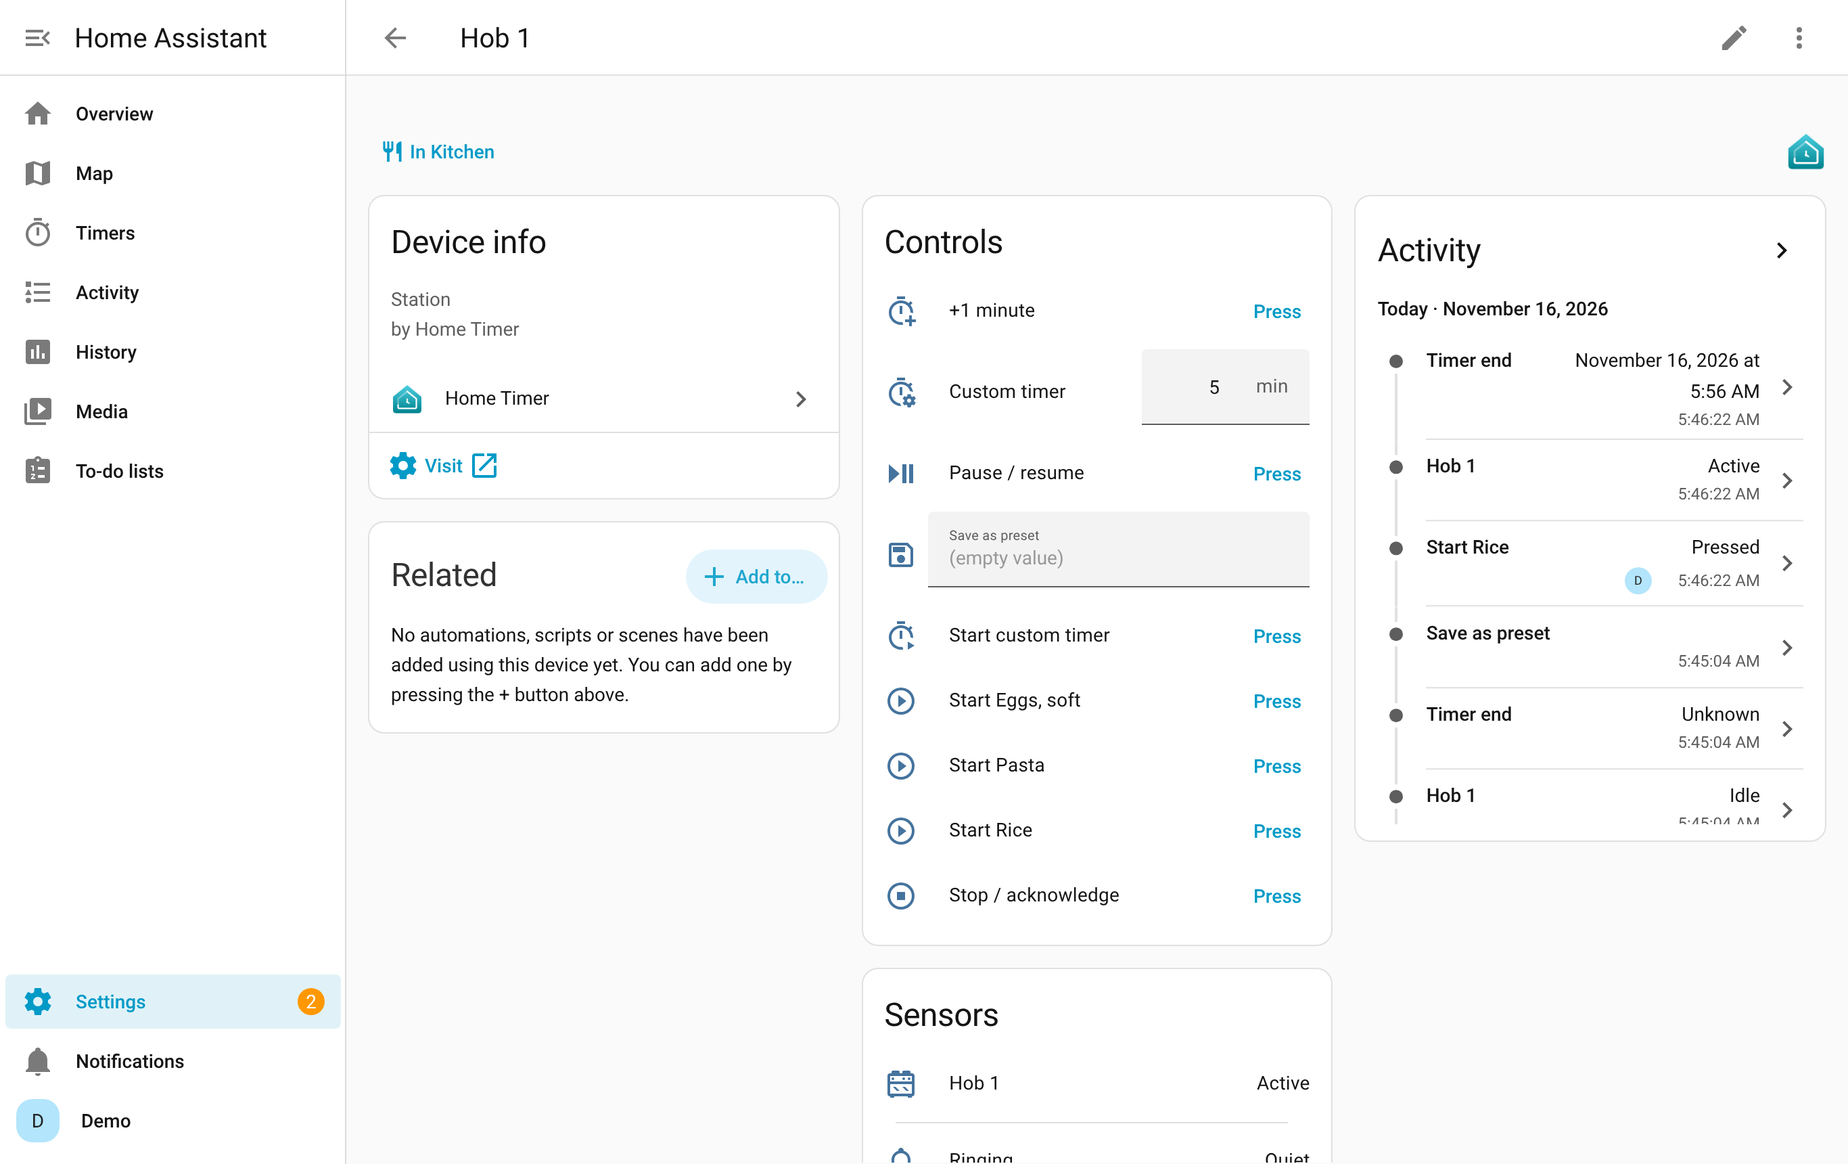
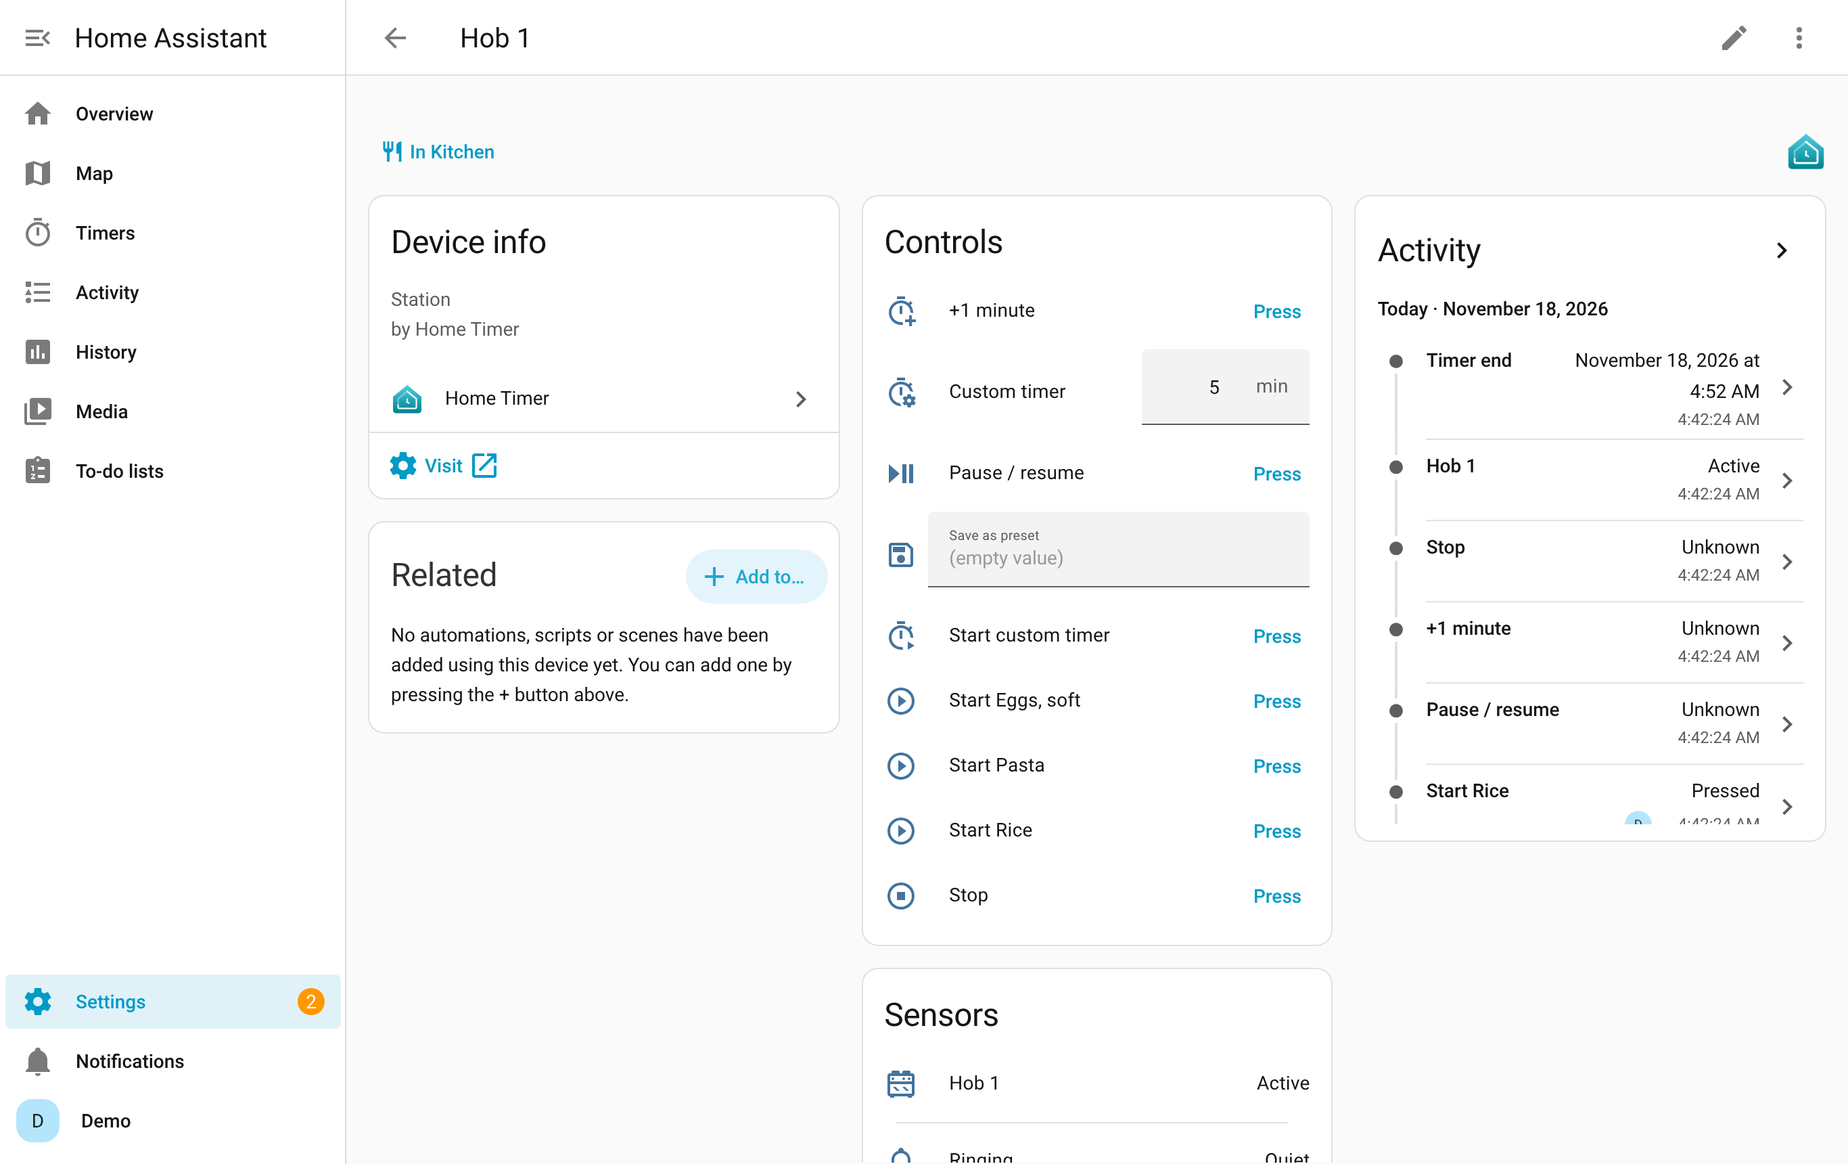
Buttons: shorter names, available only when they can act
- The area's "Acknowledge all" is now "Stop ringing" (it only stops
  timers without a station); a station's "Stop / acknowledge" is "Stop".
  Unique ids are unchanged, so existing entities keep their entity ids;
  new installs get button.<area>_home_timer_stop_ringing and
  button.<area>_<station>_stop.
- Buttons are unavailable while they could do nothing: Stop ringing
  while no timer without a station rings, Pause / resume while the
  station's timer neither runs (with an end) nor is paused, +1 minute
  while it has no timer with an end, Stop while it has no timer, Done now
  while the appliance is off.

Claude-Session: https://claude.ai/code/session_013QxJ3mY44sKf5QDsVZqSUV

diff --git a/custom_components/home_timer/button.py b/custom_components/home_timer/button.py
@@ -1,5 +1,9 @@
-"""Buttons. Area: acknowledge all, its quick timers, start custom timer. Station: its
-presets, start custom timer, pause/resume, +1 minute, stop."""
+"""Buttons. Area: stop ringing, its quick timers, start custom timer. Station: its
+presets, start custom timer, pause/resume, +1 minute, stop, done now.
+
+Buttons that act on a timer are available only while they can do something
+(stop ringing while a timer without a station rings, pause/resume while the
+station's timer runs or is paused, …)."""
 
 from __future__ import annotations
 
@@ -55,9 +59,13 @@ def _run(func, *args, **kwargs) -> None:
 
 
 class AcknowledgeAllButton(AreaEntity, ButtonEntity):
-    """Acknowledges the ringing timers without a station (stations have their own button).
+    """Stop ringing: acknowledges the ringing timers without a station (stations have their own Stop).
 
-    Does nothing while none rings (always available, so a dashboard button stays usable)."""
+    Available only while one of them rings."""
+
+    @property
+    def available(self) -> bool:
+        return any(t.status == STATUS_RINGING and t.station is None for t in self.engine.timers.values())
 
     async def async_press(self) -> None:
         self.engine.acknowledge_all(by=BY_BUTTON, stations=False)
@@ -104,6 +112,13 @@ class StationStartCustomButton(StationEntity, ButtonEntity):
 
 
 class PauseResumeButton(StationEntity, ButtonEntity):
+    """Pauses the station's timer or resumes it; available while it runs (with an end) or is paused."""
+
+    @property
+    def available(self) -> bool:
+        timer = self.timer
+        return timer is not None and (timer.status == STATUS_PAUSED or (timer.status == STATUS_ACTIVE and not timer.open))
+
     async def async_press(self) -> None:
         timer = self.timer
         if timer is None:
@@ -115,7 +130,12 @@ class PauseResumeButton(StationEntity, ButtonEntity):
 
 
 class AddMinuteButton(StationEntity, ButtonEntity):
-    """+1 minute; a ringing timer starts again with one minute."""
+    """+1 minute; a ringing timer starts again with one minute. Available while that is possible."""
+
+    @property
+    def available(self) -> bool:
+        timer = self.timer
+        return timer is not None and timer.status in (STATUS_ACTIVE, STATUS_PAUSED, STATUS_RINGING) and not (timer.open and timer.status == STATUS_ACTIVE)
 
     async def async_press(self) -> None:
         if (timer := self.timer) is not None:
@@ -123,7 +143,11 @@ class AddMinuteButton(StationEntity, ButtonEntity):
 
 
 class StopButton(StationEntity, ButtonEntity):
-    """Acknowledges a ringing timer, cancels a running or paused one."""
+    """Stop: acknowledges a ringing timer, cancels a running or paused one. Available while there is one."""
+
+    @property
+    def available(self) -> bool:
+        return self.timer is not None
 
     async def async_press(self) -> None:
         timer = self.timer
@@ -139,7 +163,13 @@ class DoneNowButton(StationEntity, ButtonEntity):
     """Learning: the user says the appliance's run is done now (a mark on the run's curve).
 
     It does not ring or stop anything; the panel uses the marks to suggest done rules.
+    Available while the appliance runs.
     """
+
+    @property
+    def available(self) -> bool:
+        watcher = self.engine.watcher(self.station.id)
+        return bool(watcher and watcher.running)
 
     async def async_press(self) -> None:
         watcher = self.engine.watcher(self.station.id)

diff --git a/tests/test_power_station.py b/tests/test_power_station.py
@@ -44,7 +44,7 @@ async def test_until_off_with_switch_off_rule(hass: HomeAssistant, kitchen, free
     for name in ("button.kitchen_kettle_start_custom_timer", "number.kitchen_kettle_custom_timer",
                  "button.kitchen_kettle_pause_resume"):
         assert hass.states.get(name) is None, name
-    assert hass.states.get("button.kitchen_kettle_stop_acknowledge") is not None
+    assert hass.states.get("button.kitchen_kettle_stop") is not None
     await watts(hass, freezer, 2100)
     assert hass.states.get("binary_sensor.kitchen_kettle_running").state == "on"
     state = hass.states.get("sensor.kitchen_kettle")
@@ -60,7 +60,7 @@ async def test_until_off_with_switch_off_rule(hass: HomeAssistant, kitchen, free
     assert hass.states.get("sensor.kitchen_kettle_runs").state == "1"
     assert float(hass.states.get("sensor.kitchen_kettle_usual_duration").state) == pytest.approx(3, abs=0.1)
     # the next run shows the expected end
-    await hass.services.async_call("button", "press", {"entity_id": "button.kitchen_kettle_stop_acknowledge"}, blocking=True)
+    await hass.services.async_call("button", "press", {"entity_id": "button.kitchen_kettle_stop"}, blocking=True)
     await watts(hass, freezer, 2100, seconds_after=60)
     assert hass.states.get("sensor.kitchen_kettle_timer_end").state not in ("unknown", "unavailable")
 
@@ -104,7 +104,7 @@ async def test_warn_if_it_runs_too_long(hass: HomeAssistant, kitchen, freezer) -
     await watts(hass, freezer, 1200)
     await tick(hass, freezer, 3601)
     assert hass.states.get("sensor.kitchen_iron").state == "ringing"
-    await hass.services.async_call("button", "press", {"entity_id": "button.kitchen_iron_stop_acknowledge"}, blocking=True)
+    await hass.services.async_call("button", "press", {"entity_id": "button.kitchen_iron_stop"}, blocking=True)
     await tick(hass, freezer, 10)
     assert hass.states.get("sensor.kitchen_iron").state == "active"  # still on: warns again
     await watts(hass, freezer, 0)
@@ -131,7 +131,7 @@ async def test_running_across_a_reload(hass: HomeAssistant, kitchen, freezer) ->
     await tick(hass, freezer, 31)
     assert hass.states.get("sensor.kitchen_kettle").state == "ringing"
     # … without it (a long gap), at once
-    await hass.services.async_call("button", "press", {"entity_id": "button.kitchen_kettle_stop_acknowledge"}, blocking=True)
+    await hass.services.async_call("button", "press", {"entity_id": "button.kitchen_kettle_stop"}, blocking=True)
     await watts(hass, freezer, 2000, seconds_after=5)
     assert hass.states.get("sensor.kitchen_kettle").state == "active"
     assert await hass.config_entries.async_unload(kitchen.entry_id)
@@ -249,7 +249,7 @@ async def test_warn_stop_silences_the_run(hass: HomeAssistant, kitchen, freezer)
     await add_power_station(hass, kitchen, "Iron", "warn", warn_after=60)
     ev = events(hass)
     await watts(hass, freezer, 1200)
-    await hass.services.async_call("button", "press", {"entity_id": "button.kitchen_iron_stop_acknowledge"}, blocking=True)
+    await hass.services.async_call("button", "press", {"entity_id": "button.kitchen_iron_stop"}, blocking=True)
     await tick(hass, freezer, 10)
     assert hass.states.get("sensor.kitchen_iron").state == "idle"  # stopped: no new warning this run
     assert len(ev["started"]) == 1

diff --git a/tests/test_stations.py b/tests/test_stations.py
@@ -19,7 +19,7 @@ RICE = "button.kitchen_hob_1_start_rice"
 PASTA = "button.kitchen_hob_1_start_pasta"
 PAUSE = "button.kitchen_hob_1_pause_resume"
 PLUS = "button.kitchen_hob_1_1_minute"
-STOP = "button.kitchen_hob_1_stop_acknowledge"
+STOP = "button.kitchen_hob_1_stop"
 
 
 @pytest.fixture
@@ -238,7 +238,7 @@ async def test_upgrade_keeps_area_entities(hass: HomeAssistant, kitchen) -> None
     for entity_id in (
         "sensor.kitchen_home_timer_timers",
         "binary_sensor.kitchen_home_timer_ringing",
-        "button.kitchen_home_timer_acknowledge_all",
+        "button.kitchen_home_timer_stop_ringing",
     ):
         assert hass.states.get(entity_id) is not None
     assert kitchen.subentries == {}
@@ -260,10 +260,28 @@ async def test_ringing_sensors_are_red_while_ringing(hass: HomeAssistant, kitche
     await tick(hass, freezer, 31)
     assert hass.states.get("binary_sensor.kitchen_home_timer_ringing").state == "on"
     # the area's button acknowledges only timers without a station
-    await hass.services.async_call("button", "press", {"entity_id": "button.kitchen_home_timer_acknowledge_all"}, blocking=True)
+    await hass.services.async_call("button", "press", {"entity_id": "button.kitchen_home_timer_stop_ringing"}, blocking=True)
     assert hass.states.get("binary_sensor.kitchen_home_timer_ringing").state == "off"
     assert hass.states.get("binary_sensor.kitchen_hob_1_ringing").state == "on"
     # the action on the area still acknowledges every ringing timer of it, stations' included
     await hass.services.async_call(DOMAIN, "acknowledge", {"area_id": kitchen.data["area_id"]}, blocking=True)
     assert hass.states.get("binary_sensor.kitchen_hob_1_ringing").state == "off"
 
+
+
+async def test_buttons_are_available_only_when_they_can_act(hass: HomeAssistant, kitchen, freezer) -> None:
+    """Pause/resume, +1 minute, Stop and the area's Stop ringing are unavailable while they could do nothing."""
+    await add_station(hass, kitchen, "Hob 1", [("Rice", 60)])
+    ringing = "button.kitchen_home_timer_stop_ringing"
+    state = lambda e: hass.states.get(e).state  # noqa: E731
+    assert [state(e) for e in (PAUSE, PLUS, STOP, ringing)] == ["unavailable"] * 4
+    await hass.services.async_call("button", "press", {"entity_id": RICE}, blocking=True)
+    assert "unavailable" not in [state(e) for e in (PAUSE, PLUS, STOP)]
+    await tick(hass, freezer, 61)  # the station's timer rings
+    assert state(PAUSE) == "unavailable" and state(STOP) != "unavailable" and state(PLUS) != "unavailable"
+    assert state(ringing) == "unavailable"  # the area's button is for timers without a station
+    await hass.services.async_call("button", "press", {"entity_id": STOP}, blocking=True)
+    assert [state(e) for e in (PAUSE, PLUS, STOP)] == ["unavailable"] * 3
+    await start(hass, kitchen.data["area_id"], duration="00:00:30")
+    await tick(hass, freezer, 31)
+    assert state(ringing) != "unavailable"

diff --git a/scripts/instance/scene.py b/scripts/instance/scene.py
@@ -27,14 +27,14 @@ DASHBOARD = {
                 {"type": "tile", "entity": "button.kitchen_hob_1_start_eggs_soft", "name": "Eggs", "vertical": True, "hide_state": True, "grid_options": {"columns": 4}},
                 {"type": "tile", "entity": "button.kitchen_hob_1_pause_resume", "name": "Pause", "vertical": True, "hide_state": True, "grid_options": {"columns": 4}},
                 {"type": "tile", "entity": "button.kitchen_hob_1_1_minute", "name": "+1 min", "vertical": True, "hide_state": True, "grid_options": {"columns": 4}},
-                {"type": "tile", "entity": "button.kitchen_hob_1_stop_acknowledge", "name": "Stop", "vertical": True, "hide_state": True, "grid_options": {"columns": 4}},
+                {"type": "tile", "entity": "button.kitchen_hob_1_stop", "name": "Stop", "vertical": True, "hide_state": True, "grid_options": {"columns": 4}},
             ]},
             {"type": "grid", "cards": [
                 {"type": "heading", "heading": "Appliances", "icon": "mdi:power-plug-outline"},
                 tile("sensor.kitchen_moka_pot", "Moka pot"),
                 tile("sensor.moka_pot_plug_power", "Power"),
                 tile("binary_sensor.kitchen_kettle_ringing", "Kettle"),
-                tile("button.kitchen_kettle_stop_acknowledge", "Got it"),
+                tile("button.kitchen_kettle_stop", "Got it"),
                 tile("binary_sensor.kitchen_rice_cooker_ringing", "Rice cooker"),
                 tile("sensor.kitchen_hob_2", "Hob 2"),
             ]},

diff --git a/tests/test_learn.py b/tests/test_learn.py
@@ -7,7 +7,6 @@ from datetime import UTC, datetime, timedelta
 
 import pytest
 from homeassistant.core import HomeAssistant
-from homeassistant.exceptions import HomeAssistantError
 
 from custom_components.home_timer.learn import MIN_MARKED, search
 from custom_components.home_timer.power import DoneRule, Trace
@@ -100,9 +99,7 @@ async def test_marks_skip_suggest_and_done_now(hass: HomeAssistant, kitchen, fre
     hass.states.async_set(SENSOR, "0")
     station = await add_power_station(hass, kitchen, "Moka pot", "until_off", done={"type": "off"})
     button = "button.kitchen_moka_pot_done_now"
-    assert hass.states.get(button) is not None
-    with pytest.raises(HomeAssistantError):
-        await hass.services.async_call("button", "press", {"entity_id": button}, blocking=True)
+    assert hass.states.get(button).state == "unavailable"  # only while the appliance runs
     # a run, marked "done now" from the dashboard while it runs
     last = 0
     for t, w in moka.SAMPLES:

diff --git a/scripts/instance/e2e.py b/scripts/instance/e2e.py
@@ -118,7 +118,7 @@ async def checks(ha: Instance, s: aiohttp.ClientSession, ctx: dict) -> None:
         await ha.service("todo", "update_item", {"entity_id": "todo.home_timer_ringing_timers", "item": todo["uid"], "status": "completed"})
         ack = await next_event(events, "home_timer_acknowledged", name="E2E", timeout=10)
         check("checking it off acknowledges it", ack is not None and ack["data"]["by"] == "todo", ack)
-    await ha.service("button", "press", {"entity_id": "button.kitchen_hob_1_stop_acknowledge"})
+    await ha.service("button", "press", {"entity_id": "button.kitchen_hob_1_stop"})
 
     # ------------------------------------------------------------ the panel saves; conflicts with "save as preset"
     res = await ha.call({"type": "home_timer/station/save", "entry_id": entry_id, "station": {

diff --git a/tests/test_runs.py b/tests/test_runs.py
@@ -471,7 +471,7 @@ async def test_a_rearmed_warning_keeps_its_curve_from_the_run_start(hass: HomeAs
     station = await add_power_station(hass, kitchen, "Iron", "warn", warn_after=1)
     await watts(hass, freezer, 2000)
     await watts(hass, freezer, 2100, seconds_after=75)  # warned at 60 s
-    await hass.services.async_call("button", "press", {"entity_id": "button.kitchen_iron_stop_acknowledge"}, blocking=True)
+    await hass.services.async_call("button", "press", {"entity_id": "button.kitchen_iron_stop"}, blocking=True)
     await tick(hass, freezer, 30)  # re-armed: a new countdown, started later than the run
     assert await hass.config_entries.async_reload(kitchen.entry_id)
     await hass.async_block_till_done()

diff --git a/tests/test_init.py b/tests/test_init.py
@@ -97,4 +97,4 @@ async def test_entity_ids_carry_the_area_once(hass: HomeAssistant) -> None:
     await _setup(hass, kitchen.id)
     assert hass.states.get("sensor.kitchen_home_timer_timers") is not None
     assert hass.states.get("binary_sensor.kitchen_home_timer_ringing") is not None
-    assert hass.states.get("button.kitchen_home_timer_acknowledge_all") is not None
+    assert hass.states.get("button.kitchen_home_timer_stop_ringing") is not None

diff --git a/tests/test_engine.py b/tests/test_engine.py
@@ -19,7 +19,7 @@ from .conftest import setup_area, tick
 
 SENSOR = "sensor.kitchen_home_timer_timers"
 RINGING = "binary_sensor.kitchen_home_timer_ringing"
-ACK_ALL = "button.kitchen_home_timer_acknowledge_all"
+ACK_ALL = "button.kitchen_home_timer_stop_ringing"
 
 
 def events(hass: HomeAssistant) -> dict[str, list]:

diff --git a/docs/reference.md b/docs/reference.md
@@ -12,7 +12,7 @@ On the area's *Home Timer* device.
 |---|---|
 | `sensor.<area>_home_timer_timers` | *Timers*: how many timers the area has (active, paused or ringing) |
 | `binary_sensor.<area>_home_timer_ringing` | *Ringing* while a timer of the area without a station rings, else *Quiet* – device class *problem*, so Home Assistant shows it red while it rings. A station's timer shows on the station's own *Ringing* sensor only. |
-| `button.<area>_home_timer_acknowledge_all` | acknowledges the area's ringing timers without a station – stations have their own *Stop / acknowledge* button (does nothing while none rings). The `home_timer.acknowledge` action on the area still acknowledges all of them. |
+| `button.<area>_home_timer_stop_ringing` | *Stop ringing*: acknowledges the area's ringing timers without a station – stations have their own *Stop* button. Available only while one of them rings. The `home_timer.acknowledge` action on the area still acknowledges all of them. |
 | `button.<area>_home_timer_start_<quick timer>` | starts the quick timer (one per quick timer of the area) |
 | `number.<area>_home_timer_custom_timer` | custom duration in minutes (1–600) |
 | `button.<area>_home_timer_start_custom_timer` | starts a timer "Timer" with the custom duration |
@@ -59,10 +59,12 @@ On the station's device.
 | `binary_sensor.<area>_<station>_ringing` | *Ringing* while the station's timer rings, else *Quiet* – shown red while it rings (device class *problem*). With *Ring until acknowledged* off a timer never rings, so it stays *Quiet* |
 | `sensor.<area>_<station>_timer_end` | when the timer runs out (timestamp, while active); for an open timer the expected end |
 | `button.<area>_<station>_start_<preset>` | starts the preset (one per preset) |
-| `button.<area>_<station>_pause_resume` | pauses or resumes the timer |
-| `button.<area>_<station>_1_minute` | +1 minute (a ringing timer starts again) |
-| `button.<area>_<station>_stop_acknowledge` | acknowledges a ringing timer, cancels a running or paused one |
-| `button.<area>_<station>_done_now` | power stations that ring when done: marks the run going on as done (learning) |
+| `button.<area>_<station>_pause_resume` | pauses or resumes the timer – available while it runs (with an end) or is paused |
+| `button.<area>_<station>_1_minute` | +1 minute (a ringing timer starts again) – available while the station has a timer that has an end |
+| `button.<area>_<station>_stop` | *Stop*: acknowledges a ringing timer, cancels a running or paused one – available while the station has a timer |
+| `button.<area>_<station>_done_now` | power stations that ring when done: marks the run going on as done (learning) – available while the appliance runs |
+
+Buttons that act on a timer are *unavailable* while they could do nothing, so a dashboard only offers what makes sense right now. Stations and areas set up earlier keep their entity ids (`…_acknowledge_all`, `…_stop_acknowledge`); only the names changed.
 | `number.<area>_<station>_custom_timer` | custom duration in minutes (1–600) |
 | `button.<area>_<station>_start_custom_timer` | starts a timer "Timer" with the custom duration |
 | `text.<area>_<station>_save_as_preset` | enter a name: saves the custom timer as a preset of the station; attributes `custom_timer`, `duration` |

diff --git a/docs/power.md b/docs/power.md
@@ -68,7 +68,7 @@ When one rule is not enough – it would also fire earlier, at a dip that is not
 | `binary_sensor.<area>_<station>_ringing` | *Ringing* while its timer rings (done, or the warning), else *Quiet* – shown red while it rings |
 | `sensor.<area>_<station>_runs` | how often it ran |
 | `sensor.<area>_<station>_usual_duration` | median of the last 20 runs (until done, or until it stopped) |
-| `button.<area>_<station>_stop_acknowledge` | acknowledges the ringing timer, or cancels the running one (the run itself goes on) |
+| `button.<area>_<station>_stop` | acknowledges the ringing timer, or cancels the running one (the run itself goes on) |
 | `button.<area>_<station>_done_now` | *ring when it's done* only: marks the run going on as done now – for [learning](#learning); it does not ring or stop anything |
 
 Events carry `trigger: rule` or `trigger: off` when a run finishes, `reason: power_off` when switching off cancels a timer, and `by: power` when switching off acknowledges a ringing warning.

diff --git a/docs/setup.md b/docs/setup.md
@@ -10,7 +10,7 @@ Repeat this for every area that should have timers. An open kitchen-living room 
 
 ## The area's device
 
-Every area gets a device **"Home Timer"**, placed in its area when it is created. It carries the area's entities (see [Reference](reference.md)): *Timers*, *Ringing* and *Acknowledge all*. The area's ringing timers also show up in Home Timer's one to-do list for all areas (see [Timers](timers.md#to-do-list)).
+Every area gets a device **"Home Timer"**, placed in its area when it is created. It carries the area's entities (see [Reference](reference.md)): *Timers*, *Ringing* and *Stop ringing*. The area's ringing timers also show up in Home Timer's one to-do list for all areas (see [Timers](timers.md#to-do-list)).
 
 The device name does not repeat the area: Home Assistant shows the area next to it and puts the area into entity ids, e.g. `sensor.kitchen_home_timer_timers`. (Up to 0.0.1 the device was called "Kitchen: Home Timer"; it is renamed by itself.)
 
